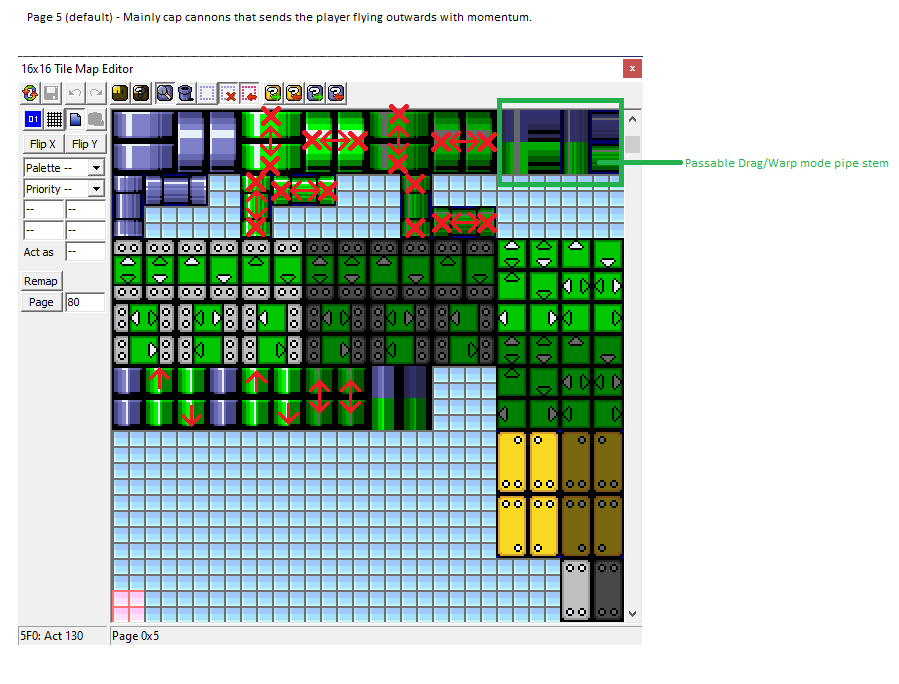
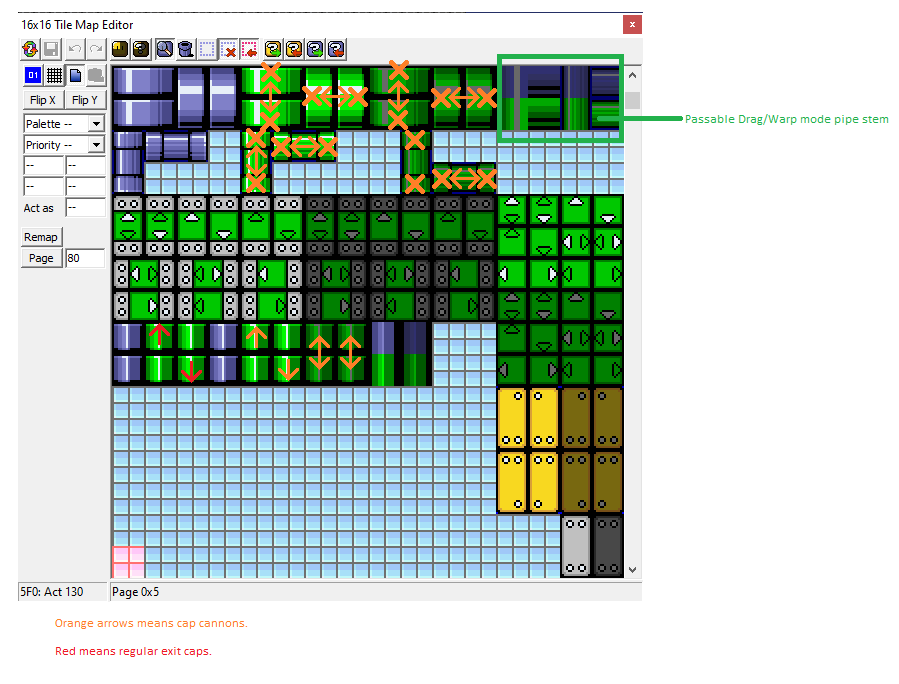
update
-Fixed a bug with dragplayer may send the player's Y position to an invalid place due to the X index (which was meant to be used to determine the Y position if you are on yoshi or not) being also used by the SSPDragMarioMode subroutine
-Images updated to reflect the changes of page 5.
-Added note that when traveling upwards, DragPlayer block must have a space above it so that big mario/Mario-Riding-yoshi can trigger it
-Added explanation of the new features about cap cannons.
-Added yoshi into the level.

diff --git a/Readme.html b/Readme.html
@@ -43,6 +43,7 @@ screen-fading to the next level, the player will move through the pipes (along w
 		<a href="#ExtraFeatures" id="TOC_ExtraFeatures">Extra features</a>
 		<ol>
 			<li><a href="#ScreenScrollingWarpPipes" id="TOC_ScreenScrollingWarpPipes">Screen Scrolling *warp* pipes</a></li>
+			<li><a href="#CapCannons" id="TOC_CapCannons">Pipe cap cannons</a></li>
 		</ol>
 	</li>
 	<li>
@@ -271,6 +272,12 @@ not to be required to have any pipe-related blocks in the area in between.</p>
 <p>Psst, Nintendo called them &ldquo;warp pipes&rdquo; instead of just &ldquo;pipes&rdquo; because of that very reason of not always being physically connected to the other end.</p>
 
 <p>To get this running, see this tutorial <a href="Readme_files/BlocksUsageInLevel2.html#TOC_WarpMode" target="_blank">here</a></p>
+
+<h3><a href="#TOC_CapCannons" id="CapCannons">Cap cannons</a></h3>
+<p>Along with the variations of cap cannons added (including the ability to have each cap individually allow or forbid things like carrying and riding yoshi), I also featured pipe caps
+that when exit out of, flings the player a short distance with momentium. This is especially useful for kaizo hacks involving platform tricks.</p>
+
+<p>See the list of blocks in the <a href="Readme_files/BlocksUsageInLevel2.html" target="_blank">block placement section</a></p>
 <h2><a href="#TOC_FAQ" id="FAQ">^</a>FAQ</h2>
 <ul>
 

diff --git a/Readme_files/BlocksUsageInLevel2.html b/Readme_files/BlocksUsageInLevel2.html
@@ -41,7 +41,6 @@ This is the summary of the map16 blocks on what they do:<br>
 Keep in mind that the pipe stems and turn corners (they yellow 32x32 and 16x16 for small pipes) <b>aren't 1-way themselves</b>, the only blocks
 that makes them 1-way are the pipe caps being &ldquo;exit only&rdquo;.</li><br>
 <table><tr><td><img src="Map16_Page_5_info.png"></td></tr></table>
-^These are cap cannons that fling the player out of the cap with momentum.<br>
 
 <li>Things you should avoid placing and what you can do:</li>
 <ul>
